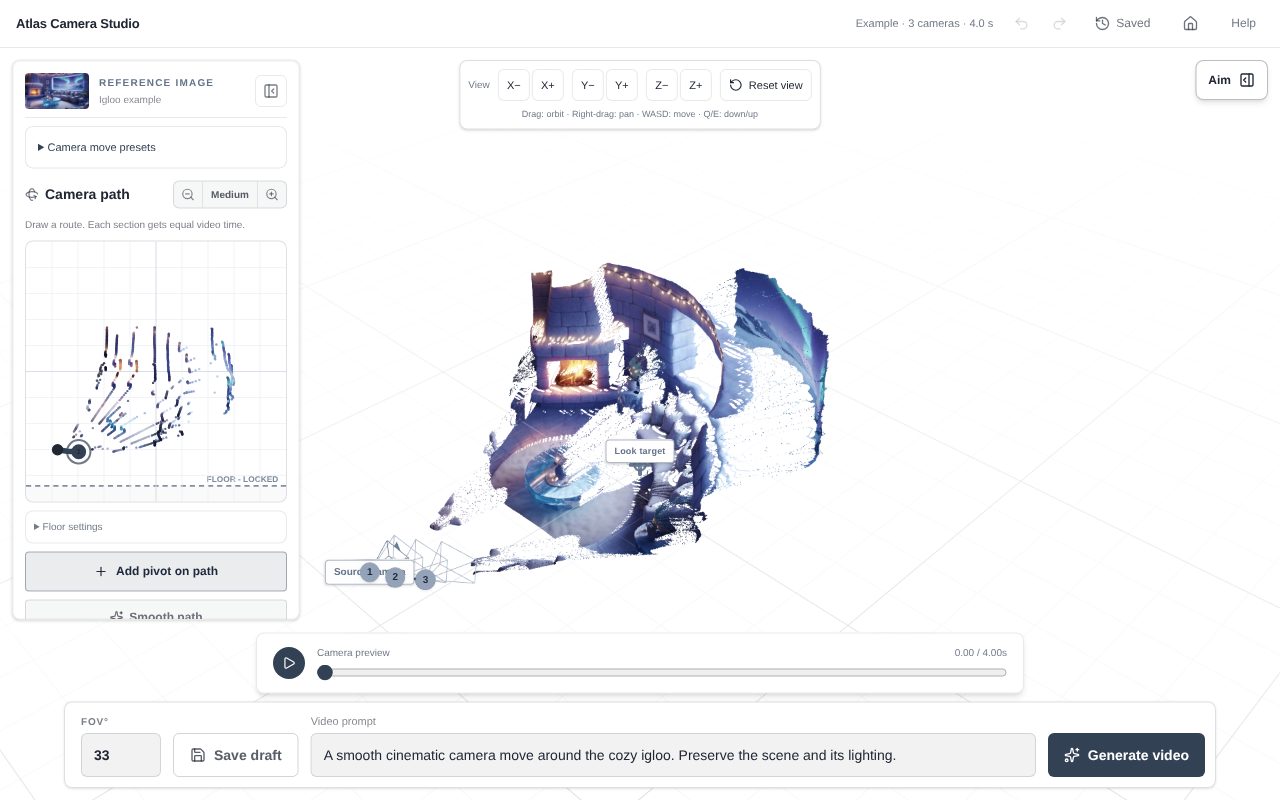
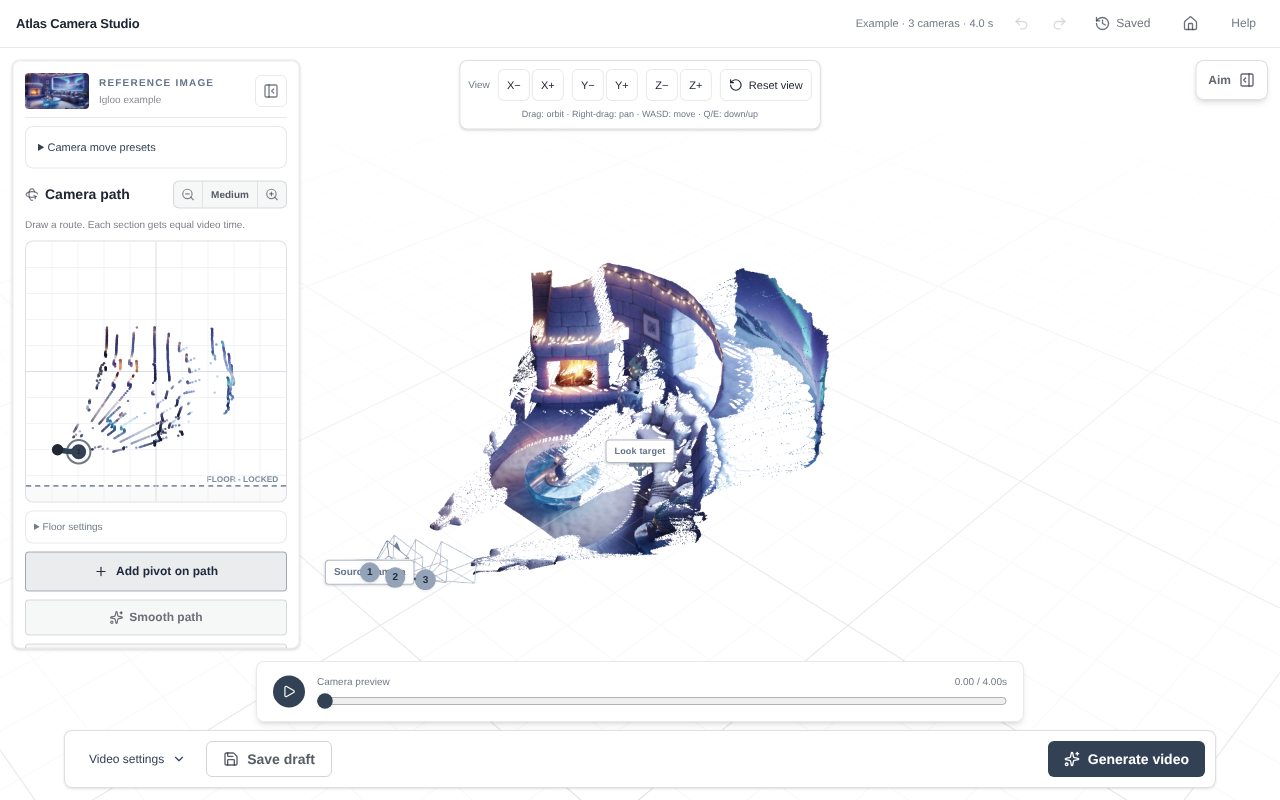
Fit camera controls and path map to scaled display viewports

Changed region(s): [[0.0312, 0.7812, 0.7812, 0.9688], [0.8125, 0.9062, 0.9375, 0.9688], [0.9375, 0.0938, 1.0, 0.125]]

diff --git a/src/trajectory/Editor.tsx b/src/trajectory/Editor.tsx
@@ -1986,7 +1986,7 @@ export function CameraTrajectoryPage({
                 }
                 className={`absolute left-3 top-3 z-30 studio-floating-panel max-w-[calc(100%-1.5rem)] overflow-y-auto overscroll-contain rounded-lg border border-[#202733]/15 bg-[#ffffff]/95 p-3 shadow-sm transition-[width] duration-200   ${DRAWING_PANEL_SIZES[drawingPanelSizeIndex]!.widthClass}`}
               >
-                <div className="mb-2 flex items-center gap-2.5 border-b border-[#202733]/10 pb-2">
+                <div className="studio-source mb-2 flex items-center gap-2.5 border-b border-[#202733]/10 pb-2">
                   <button
                     type="button"
                     onClick={chooseNewImage}
@@ -2026,7 +2026,7 @@ export function CameraTrajectoryPage({
 
                 <details
                   open={path.length < 2}
-                  className="mb-3 rounded-lg border border-[#202733]/10 bg-white p-3"
+                  className="studio-presets mb-3 rounded-lg border border-[#202733]/10 bg-white p-3"
                 >
                   <summary className="cursor-pointer text-[11px] font-medium text-[#334155]">
                     Camera move presets
@@ -2202,10 +2202,10 @@ export function CameraTrajectoryPage({
             <div
               data-studio-controls
               ref={observeControlsDock}
-              className="absolute inset-x-3 bottom-3 z-40 mx-auto max-w-6xl"
+              className="studio-controls-dock absolute inset-x-3 bottom-3 z-40 mx-auto max-w-6xl"
             >
               {!inspecting && error && (
-                <div className="mb-2 rounded-md border border-red-400/30 bg-red-50/95 px-3 py-2 text-center text-xs text-red-800 backdrop-blur">
+                <div className="studio-controls-feedback mb-2 rounded-md border border-red-400/30 bg-red-50/95 px-3 py-2 text-center text-xs text-red-800 backdrop-blur">
                   {error}
                 </div>
               )}
@@ -2213,14 +2213,14 @@ export function CameraTrajectoryPage({
                 <div
                   role="status"
                   aria-live="polite"
-                  className="mb-2 rounded-md border border-emerald-300/25 bg-emerald-50/95 px-3 py-2 text-center text-xs text-emerald-800 backdrop-blur"
+                  className="studio-controls-feedback mb-2 rounded-md border border-emerald-300/25 bg-emerald-50/95 px-3 py-2 text-center text-xs text-emerald-800 backdrop-blur"
                 >
                   {notice}
                 </div>
               )}
 
               {views.length >= 2 && !placingDirectionTarget && (
-                <div className="mb-2 mx-auto flex max-w-3xl items-center gap-3 rounded-lg border border-[#202733]/10 bg-[#ffffff]/95 px-4 py-3 shadow-md backdrop-blur">
+                <div className="studio-timeline mb-2 mx-auto flex max-w-3xl items-center gap-3 rounded-lg border border-[#202733]/10 bg-[#ffffff]/95 px-4 py-3 shadow-md backdrop-blur">
                   <button
                     type="button"
                     aria-label={
@@ -2237,9 +2237,11 @@ export function CameraTrajectoryPage({
                       <Play className="h-3.5 w-3.5" />
                     )}
                   </button>
-                  <div className="min-w-0 flex-1">
-                    <div className="mb-1 flex justify-between text-[10px] text-[#727b88]">
-                      <span>Camera preview</span>
+                  <div className="studio-timeline-track min-w-0 flex-1">
+                    <div className="studio-timeline-caption mb-1 flex justify-between text-[10px] text-[#727b88]">
+                      <span className="studio-timeline-label">
+                        Camera preview
+                      </span>
                       <span className="tabular-nums">
                         {(((previewProgress ?? 0) * frameCount) / fps).toFixed(
                           2,
@@ -2282,44 +2284,62 @@ export function CameraTrajectoryPage({
                 <div
                   aria-hidden={placingDirectionTarget ? true : undefined}
                   inert={placingDirectionTarget ? true : undefined}
-                  className={`flex flex-wrap items-end gap-2 rounded-lg border border-[#202733]/15 bg-[#ffffff]/95 p-2.5 pl-4 shadow-sm  sm:gap-3 xl:flex-nowrap ${placingDirectionTarget ? "pointer-events-none invisible" : ""}`}
+                  className={`studio-output-controls relative flex items-center gap-2 rounded-lg border border-[#202733]/15 bg-[#ffffff]/95 p-2.5 pl-4 shadow-sm  sm:gap-3 xl:flex-nowrap ${placingDirectionTarget ? "pointer-events-none invisible" : ""}`}
                 >
-                  <OutputNumberInput
-                    label="FOV°"
-                    value={targetFovDegrees}
-                    min={MIN_TARGET_FOV_DEGREES}
-                    max={MAX_TARGET_FOV_DEGREES}
-                    disabled={false}
-                    onChange={updateTargetFov}
-                  />
+                  <details
+                    className="studio-video-settings"
+                    onKeyDown={(event) => {
+                      if (event.key === "Escape") {
+                        event.currentTarget.open = false;
+                        event.currentTarget.querySelector("summary")?.focus();
+                      }
+                    }}
+                  >
+                    <summary className="flex h-9 cursor-pointer list-none items-center gap-2 rounded-md px-2 text-xs font-medium text-[#334155] hover:bg-[#f1f5f9]">
+                      Video settings <ChevronDown className="h-3.5 w-3.5" />
+                    </summary>
+                    <div className="studio-video-fields absolute bottom-[calc(100%+0.5rem)] right-0 flex w-[min(28rem,calc(100vw-1.5rem))] items-end gap-3 rounded-lg border border-[#202733]/15 bg-white p-3 shadow-sm">
+                      <OutputNumberInput
+                        label="FOV°"
+                        value={targetFovDegrees}
+                        min={MIN_TARGET_FOV_DEGREES}
+                        max={MAX_TARGET_FOV_DEGREES}
+                        disabled={false}
+                        onChange={updateTargetFov}
+                      />
+                      <label className="block min-w-0 flex-1">
+                        <span className="mb-1 block text-[11px] font-medium text-[#202733]/55">
+                          Video prompt <span className="text-[#334155]"></span>
+                        </span>
+                        <input
+                          aria-label="Video prompt"
+                          value={prompt}
+                          onChange={(event) => setPrompt(event.target.value)}
+                          maxLength={1000}
+                          placeholder="Example: a person walks toward the window"
+                          className="h-11 w-full rounded-md border border-[#202733]/15 bg-[#202733]/[0.06] px-3 text-sm text-[#202733] outline-none transition placeholder:text-[#202733]/55 hover:border-[#202733]/25 focus:border-[#334155] focus:ring-2 focus:ring-[#334155]/20 disabled:opacity-40"
+                        />
+                      </label>
+                    </div>
+                  </details>
 
                   <button
                     type="button"
                     disabled={savingDraft || submitting}
                     onClick={() => void saveDraft()}
-                    className="flex h-11 min-w-28 items-center justify-center gap-2 rounded-md border border-[#202733]/20 px-3 text-sm font-semibold text-[#202733]/75 transition hover:border-[#202733]/35 hover:bg-[#202733]/[0.07] hover:text-[#202733] focus-visible:outline-none focus-visible:ring-2 focus-visible:ring-[#334155]/60 active:translate-y-px disabled:cursor-wait disabled:opacity-35 sm:px-4"
+                    aria-label="Save draft"
+                    title="Save draft"
+                    className="studio-save-draft flex h-9 items-center justify-center gap-2 rounded-md border border-[#202733]/20 px-3 text-sm font-semibold text-[#202733]/75 transition hover:border-[#202733]/35 hover:bg-[#202733]/[0.07] hover:text-[#202733] focus-visible:outline-none focus-visible:ring-2 focus-visible:ring-[#334155]/60 active:translate-y-px disabled:cursor-wait disabled:opacity-35 sm:px-4"
                   >
                     {savingDraft ? (
                       <Loader2 className="h-4 w-4 animate-spin" />
                     ) : (
                       <Save className="h-4 w-4" />
                     )}
-                    {savingDraft ? "Saving…" : "Save draft"}
-                  </button>
-
-                  <label className="block min-w-48 flex-1">
-                    <span className="mb-1 block text-[11px] font-medium text-[#202733]/55">
-                      Video prompt <span className="text-[#334155]"></span>
+                    <span className="hidden sm:inline">
+                      {savingDraft ? "Saving…" : "Save draft"}
                     </span>
-                    <input
-                      aria-label="Video prompt"
-                      value={prompt}
-                      onChange={(event) => setPrompt(event.target.value)}
-                      maxLength={1000}
-                      placeholder="Example: a person walks toward the window"
-                      className="h-11 w-full rounded-md border border-[#202733]/15 bg-[#202733]/[0.06] px-3 text-sm text-[#202733] outline-none transition placeholder:text-[#202733]/55 hover:border-[#202733]/25 focus:border-[#334155] focus:ring-2 focus:ring-[#334155]/20 disabled:opacity-40"
-                    />
-                  </label>
+                  </button>
 
                   <button
                     type="button"
@@ -2333,7 +2353,7 @@ export function CameraTrajectoryPage({
                       savingDraft
                     }
                     onClick={() => void generate()}
-                    className="flex h-11 min-w-28 items-center justify-center gap-2 rounded-md bg-[#334155] px-3 text-sm font-semibold text-white transition hover:bg-[#1e293b] focus-visible:outline-none focus-visible:ring-2 focus-visible:ring-[#334155]/70 active:translate-y-px disabled:cursor-not-allowed disabled:opacity-35 sm:min-w-36 sm:px-4"
+                    className="studio-generate ml-auto flex h-9 items-center justify-center gap-2 rounded-md bg-[#334155] px-3 text-sm font-semibold text-white transition hover:bg-[#1e293b] focus-visible:outline-none focus-visible:ring-2 focus-visible:ring-[#334155]/70 active:translate-y-px disabled:cursor-not-allowed disabled:opacity-35 sm:px-4"
                   >
                     {submitting ? (
                       <Loader2 className="h-4 w-4 animate-spin" />
@@ -3333,13 +3353,13 @@ function TrajectoryDrawPad({
         </div>
       </div>
 
-      <p className="mb-2 text-[10px] leading-4 text-[#202733]/60">
+      <p className="studio-path-instructions mb-2 text-[10px] leading-4 text-[#202733]/60">
         {addingPivot
-          ? "Click the teal path in the main 3D view."
+          ? "Click the path in the main 3D view."
           : "Draw a route. Each section gets equal video time."}
       </p>
 
-      <div className="relative aspect-square overflow-hidden rounded-lg border border-[#202733]/15 bg-[#ffffff]">
+      <div className="studio-path-map relative aspect-square overflow-hidden rounded-lg border border-[#202733]/15 bg-[#ffffff]">
         <svg
           viewBox="0 0 100 100"
           role="application"

diff --git a/src/styles.css b/src/styles.css
@@ -212,3 +212,106 @@ select:focus-visible {
     max-height: calc(100% - var(--studio-controls-height, 180px) - 88px);
   }
 }
+
+/* Use CSS viewport height: display scaling can make a large monitor a short workspace. */
+@media (max-height: 650px) {
+  .studio-floating-panel,
+  .studio-panel-toggle {
+    top: 64px;
+  }
+
+  .studio-floating-panel {
+    max-height: calc(100% - var(--studio-controls-height, 100px) - 88px);
+  }
+
+  .studio-view-controls p,
+  .studio-path-instructions,
+  .studio-source p:first-child {
+    display: none;
+  }
+
+  .studio-source {
+    margin-bottom: 6px;
+    padding-bottom: 6px;
+  }
+
+  .studio-source > button:first-child {
+    width: 24px;
+  }
+
+  .studio-source > button:last-child {
+    height: 24px;
+    width: 24px;
+  }
+
+  .studio-presets {
+    margin-bottom: 6px;
+    padding: 6px;
+  }
+
+  .studio-path-map {
+    width: clamp(
+      96px,
+      calc(100dvh - var(--studio-controls-height, 100px) - 270px),
+      100%
+    );
+    margin-inline: auto;
+  }
+
+  .studio-timeline {
+    width: 100%;
+    max-width: none;
+    margin-bottom: 0;
+    padding: 7px 10px;
+    gap: 8px;
+  }
+
+  .studio-timeline-track {
+    display: flex;
+    align-items: center;
+    gap: 8px;
+  }
+
+  .studio-timeline-caption {
+    order: 1;
+    flex-shrink: 0;
+    margin: 0;
+  }
+
+  .studio-timeline-label {
+    display: none;
+  }
+
+  .studio-output-controls {
+    padding: 5px 8px;
+  }
+
+  .studio-output-controls > button {
+    font-size: 12px;
+  }
+
+  .studio-save-draft {
+    padding-inline: 10px;
+  }
+
+  .studio-save-draft span {
+    display: none;
+  }
+
+  .studio-controls-dock {
+    display: grid;
+    grid-template-columns: minmax(0, 1fr) auto;
+    align-items: end;
+    gap: 8px;
+  }
+
+  .studio-controls-feedback {
+    grid-column: 1 / -1;
+  }
+}
+
+@media (max-height: 650px) and (max-width: 759px) {
+  .studio-controls-dock {
+    grid-template-columns: minmax(0, 1fr);
+  }
+}

diff --git a/README.md b/README.md
@@ -62,6 +62,8 @@ Use the **Camera preview** timeline to inspect any frame, play from that positio
 
 Select a camera to edit **Position X/Y/Z** precisely. Values commit on blur or Enter; Y stays above the floor unless **Allow below floor** is enabled. On smaller screens, opening the path or aim panel closes the other panel.
 
+Video settings contains the FOV and prompt. On shorter viewports, the playback and generation controls share one row and the path map scales to the available height. [See the compact layout](docs/editor-scaled.png).
+
 The editor opens at an isometric angle on a white grid, with finer 1-unit lines and stronger 5-unit lines. Navigate the scene with the X/Y/Z view buttons, WASD to move horizontally, and Q/E to move down/up. Drag to orbit; right-drag or Shift-drag to pan. **Reset view** (or R while the viewer is focused) returns to the default view. These controls move the editor viewpoint, not the cameras in your shot.
 
 The preview connects adjacent depth samples into textured surfaces to fill the gaps between points when viewing at an angle. It skips sharp depth jumps and accepts longer edges on grazing surfaces only when neighboring inverse-depth samples follow a consistent trend. Geometry hidden by the source image remains unobserved.
